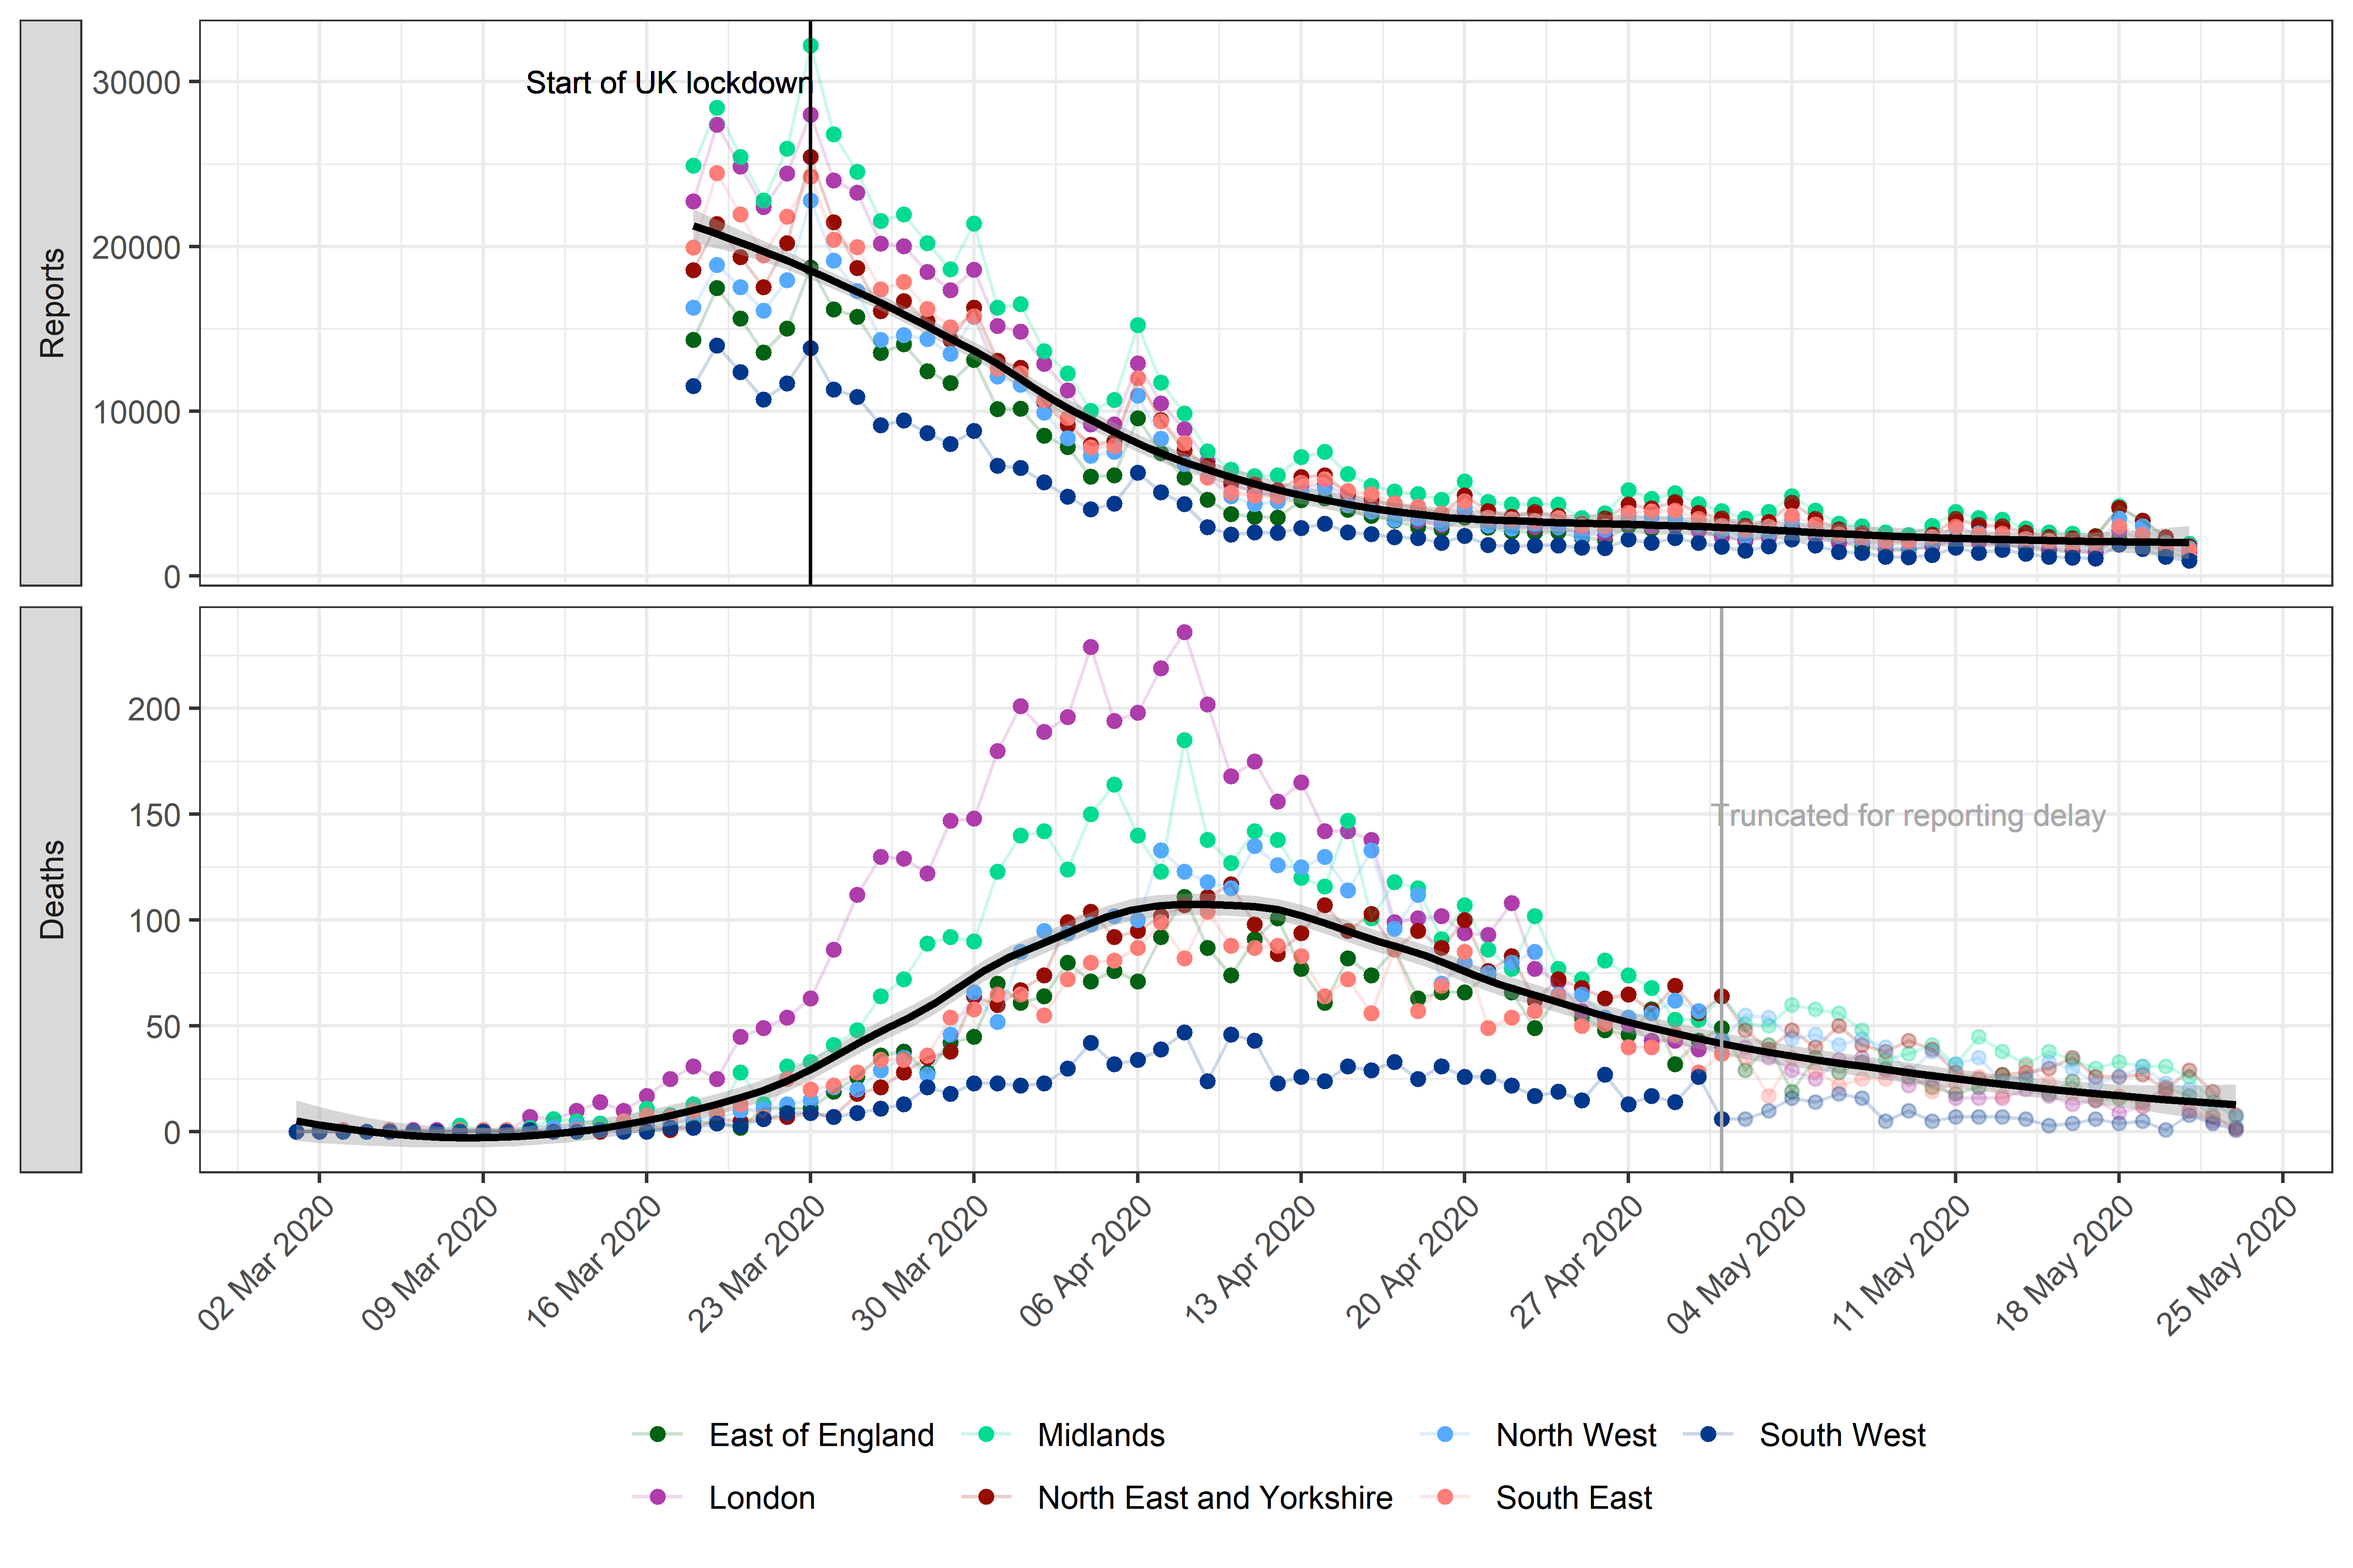
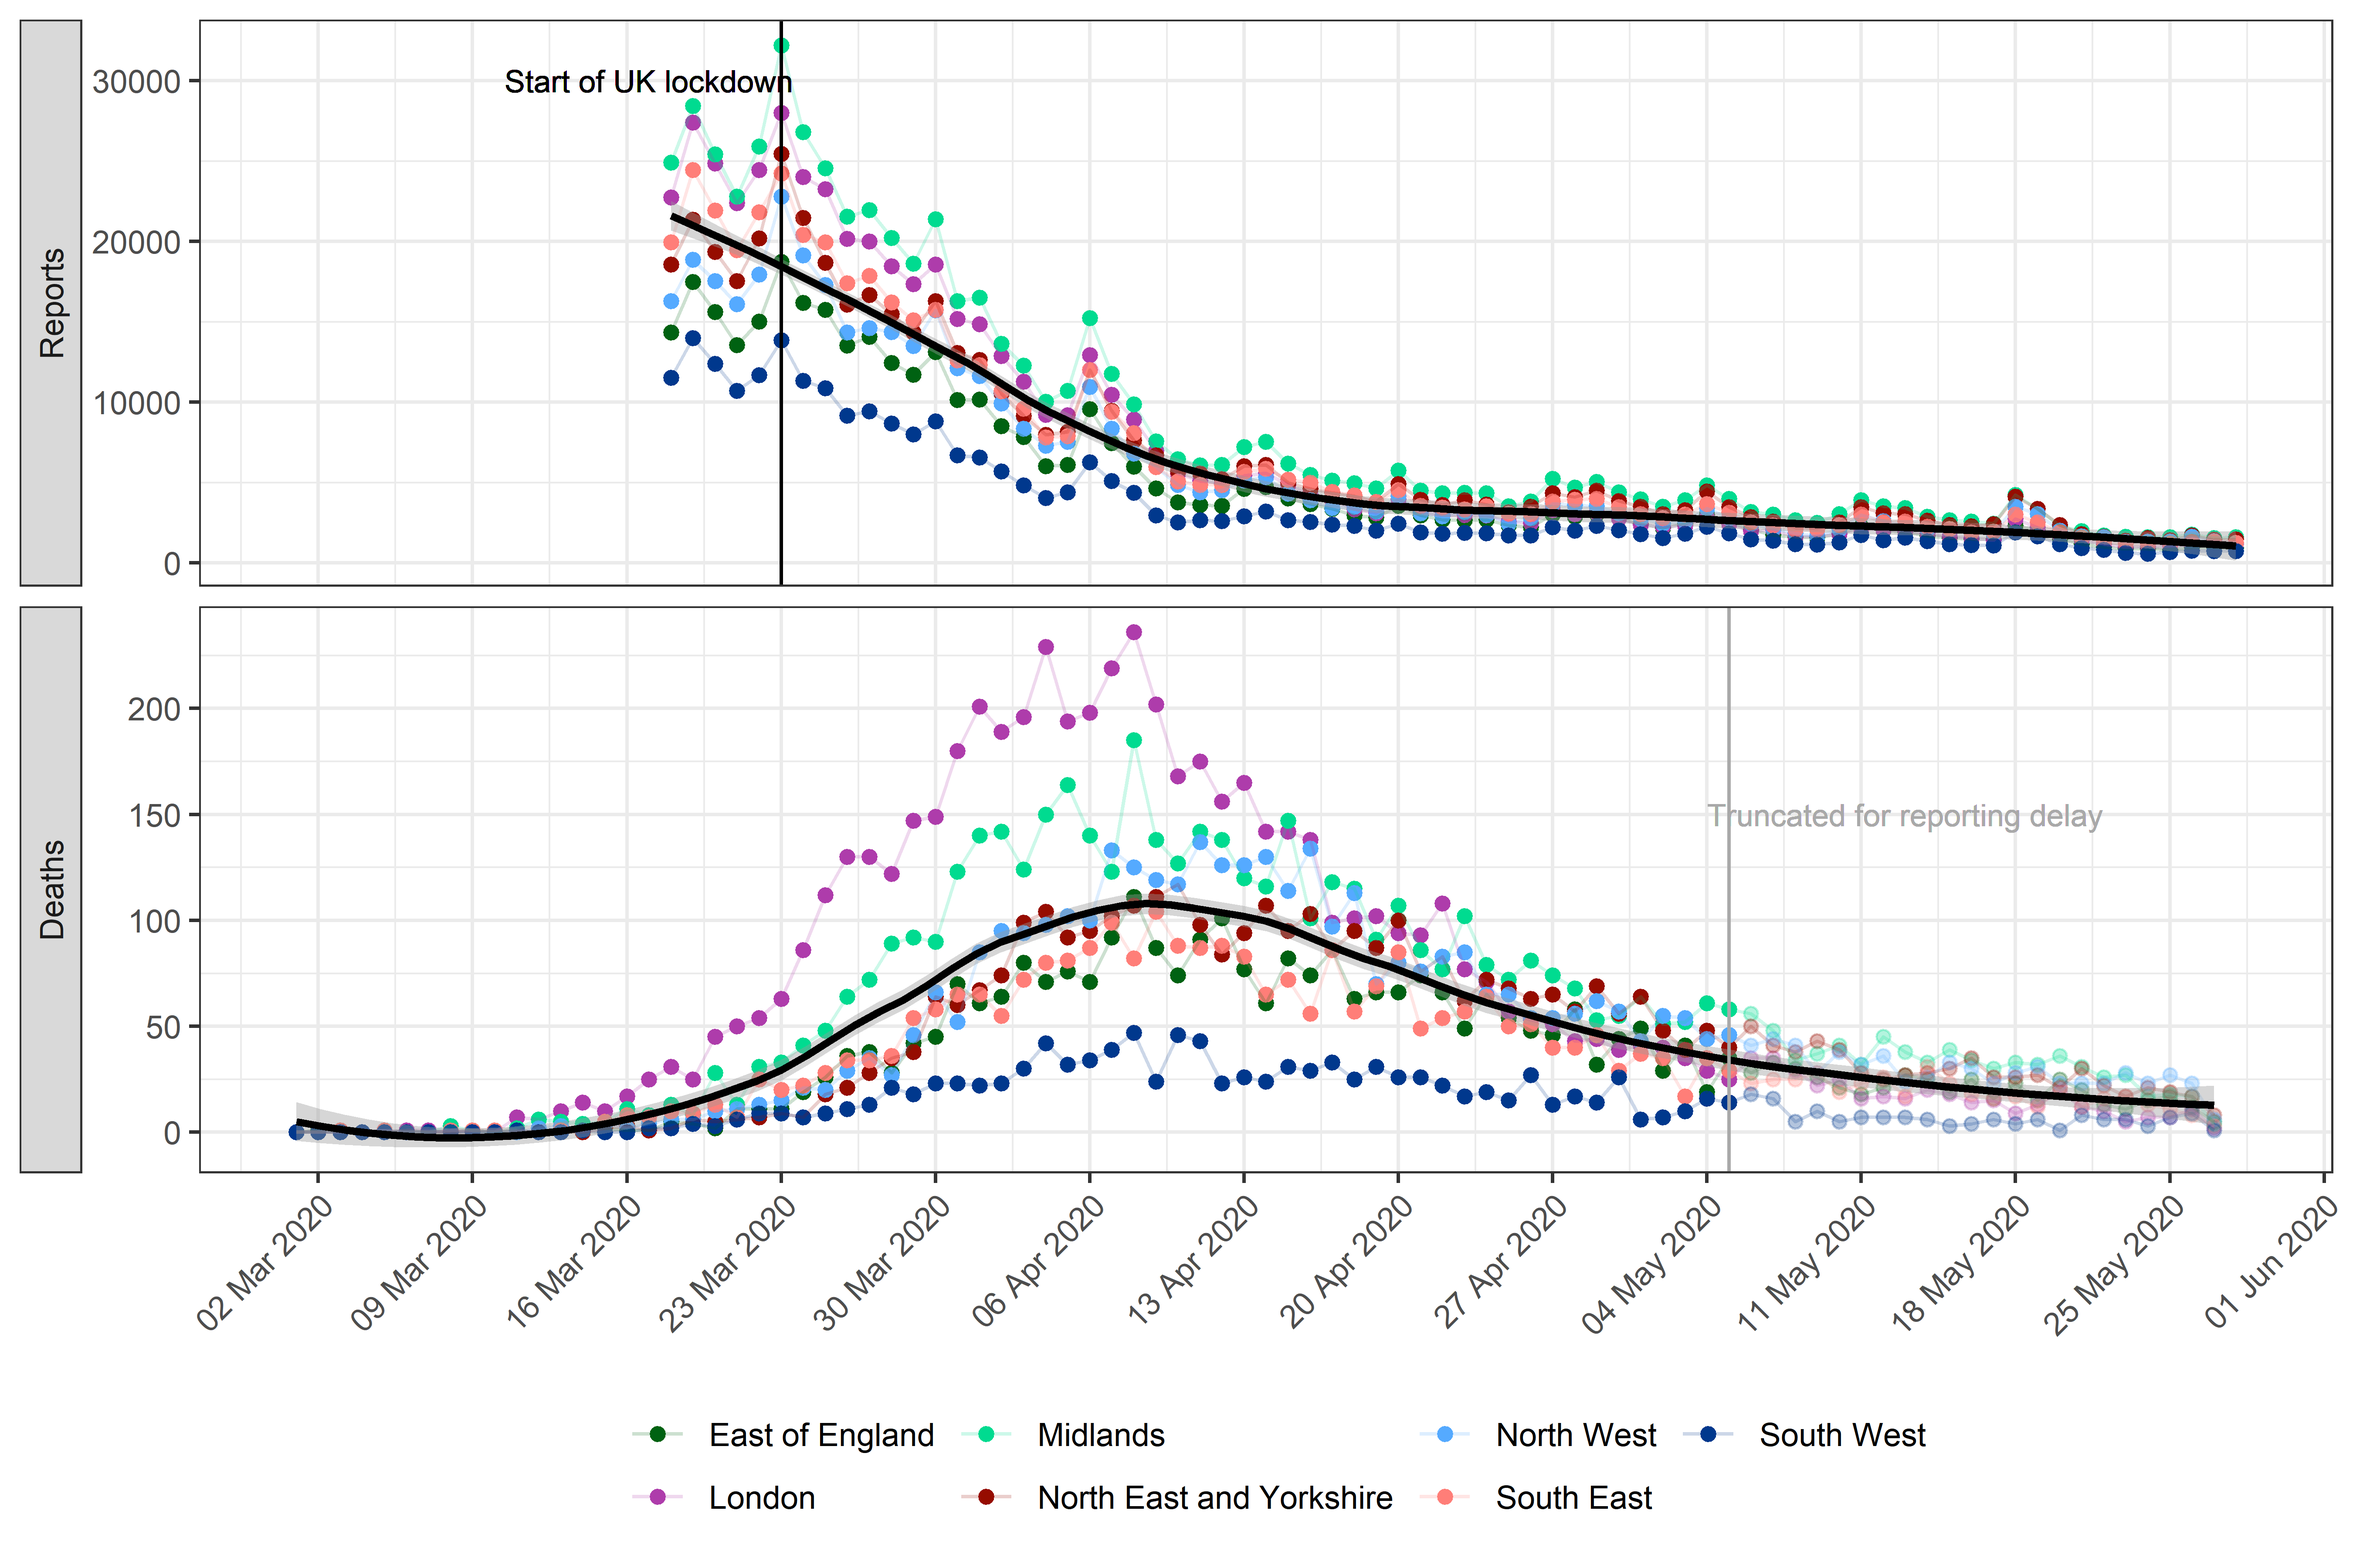
update nhs paths post

diff --git a/topics/covid19/_posts/2020-05-18-nhs-pathways.md b/topics/covid19/_posts/2020-05-18-nhs-pathways.md
@@ -3,7 +3,7 @@ title: Analysis of temporal trends in potential COVID-19 cases reported through 
 description: We analyse publicly available data on self-reported COVID-19 symptoms and deaths in England
 tags: transmission-dynamics
 status: real-time-report
-update: 2020-05-25 
+update: 2020-05-29
 authors:
   - id: quentin_leclerc
     equal: 1
@@ -13,14 +13,13 @@ authors:
   - id: ncov-group
   - id: thibaut_jombart
 ---
-
 <!-- ======================================================= -->
 <!-- ======================================================= -->
 <!-- ======================================================= -->
 
 ***This is a summary of the latest trends seen in potential COVID-19
 cases reported through NHS Pathways. The results presented here include
-data up to 2020-05-21. For a full discussion of this analysis, please
+data up to 2020-05-28. For a full discussion of this analysis, please
 refer to our paper available
 [here](https://www.medrxiv.org/content/10.1101/2020.05.16.20103820v1)***
 
@@ -43,7 +42,7 @@ better reflect milder cases and be less biased by different severity
 profiles than hospital admission data, which by definition reflect the
 most acute cases.
 
-Here, we analyse NHS Pathways data until 2020-05-21 to assess the
+Here, we analyse NHS Pathways data until 2020-05-28 to assess the
 temporal dynamics of COVID-19 in England. Specifically, we investigated
 potential changes in the growth rate of the epidemic over time, and
 compared the observed patterns across NHS regions. We derived
@@ -60,7 +59,7 @@ an early detection system.
 Latest results
 --------------
 
-***The results below were generated with data up to 2020-05-21.***
+***The results below were generated with data up to 2020-05-28.***
 
 ### Numbers of daily NHS Pathways report and NHS COVID-19 deaths
 
@@ -73,9 +72,9 @@ Pathways and reported COVID-19-related deaths, by NHS region.***
 reports. Dates correspond to the date of case report and death report,
 respectively, with x-axis labels corresponding to Mondays. The solid
 black line and grey ribbon correspond to a lowess smoother and its 95%
-confidence interval. The start of the lockdown in England (23/03/2020)
+confidence interval. The start of the lockdown in England (2020-03-23)
 and date at which death data were truncated to avoid bias from reporting
-delay (20/04/202) are highlighted by vertical lines.*
+delay (2020-05-07) are highlighted by vertical lines.*
 
 <br>
 
@@ -105,16 +104,16 @@ of 0.627 (95% CI: 0.488 ; 0.788).
 
 The most recent estimate of
 *r*
-averaged over all NHS regions is 0.002 (95% CI: -0.035 ; 0.038),
+averaged over all NHS regions is -0.061 (95% CI: -0.127 ; 0.005),
 corresponding to an
 *R*<sub>*e*</sub>
-of 1.009 (95% CI: 0.846 ; 1.192).
+of 0.74 (95% CI: 0.51 ; 1.027).
 
 ### Correlation between NHS Pathways reports and deaths
 
 Figure 3 illustrates the observed trend in correlation across all tested
 lags. The strongest correlation between NHS Pathways reports and deaths
-was obtained with a lag of 16 days (Pearson’s correlation = 0.96; 95%
+was obtained with a lag of 16 days (Pearson’s correlation = 0.97; 95%
 CI: 0.93 ; 0.98).
 
 Estimates become increasingly unstable for longer lags as the number of
@@ -130,13 +129,12 @@ replicates.*
 
 <br>
 
-Fitting a quasi-Poisson GLM, we found that over 87.9% of the deviance in
+Fitting a quasi-Poisson GLM, we found that over 87.5% of the deviance in
 daily reported deaths could potentially be explained by NHS Pathways
-reports 16 days prior, with an average of 2.13 (bootstrap 95% CI: 1.65 ;
-2.69) additional deaths for every 1,000 potential COVID-19 cases
-reported in NHS Pathways 16 days before (intercept = 294, 95% CI: 264 ;
-326; % increase per 1000 notifications = 0.01, 95% CI: 0.62 ; 0.82))
-(Figure 4).
+reports 16 days prior, with an average of 2.14 (bootstrap 95% CI: 1.67 ;
+2.7) additional deaths for every 1,000 potential COVID-19 cases reported
+in NHS Pathways 16 days before (intercept = 268, 95% CI: 240 ; 298; %
+increase per 1000 notifications = 0.01, 95% CI: 0.7 ; 0.91)) (Figure 4).
 
 <br>
 
@@ -158,7 +156,7 @@ Methods
 
 ### Data extraction
 
-We extracted the NHS Pathways data up to 2020-05-21 through the NHS
+We extracted the NHS Pathways data up to 2020-05-28 through the NHS
 Digital website \[1\], where they are updated daily, every weekday. The
 number of reports are stratified by Clinical Commissioning Group (CCG),
 gender and age group (0-18, 19-69 and 70-120 years old) of the patients.
@@ -183,7 +181,7 @@ maximum-likelihood.
 
 To assess potential changes of the growth rate over time, analyses were
 performed over rolling windows of 14 days from the earliest available
-date (2020-03-18) to the latest available one (2020-05-21). Growth rates
+date (2020-03-18) to the latest available one (2020-05-28). Growth rates
 and associated confidence intervals were calculated for each time
 window. Whenever the upper bound of *r* was negative, corresponding
 halving times were calculated as *l**o**g*(0.5)/*r*. Growth rates were
@@ -297,4 +295,5 @@ Diseases. 2020 Apr.93:284–6.
 <https://www.england.nhs.uk/statistics/statistical-work-areas/covid-19-daily-deaths/>
 
 8 - R Core Team. R: A language and environment for statistical computing
-\[Internet\]. Vienna, Austria: R Foundation for Statistical Computing; 2020. Available from: <https://www.R-project.org/>
+\[Internet\]. Vienna, Austria: R Foundation for Statistical Computing;
+2020. Available from: <https://www.R-project.org/>
